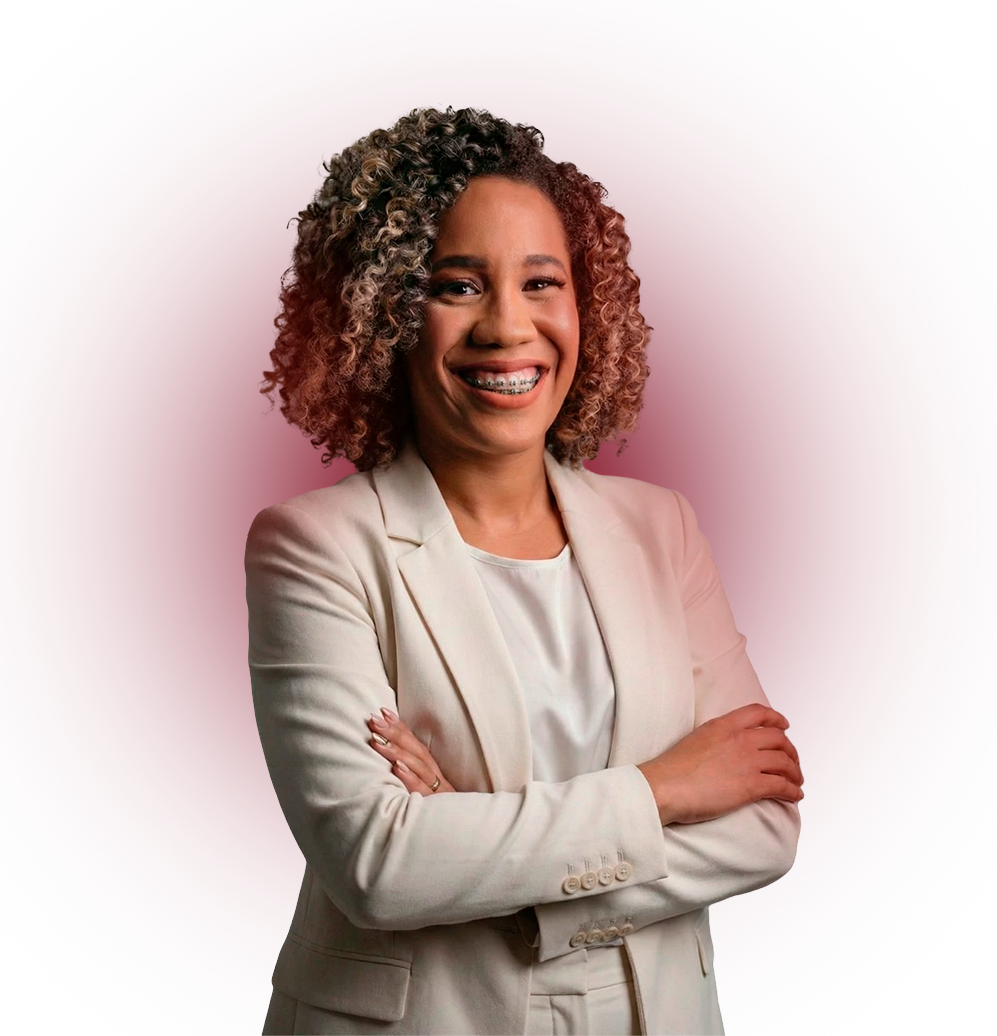
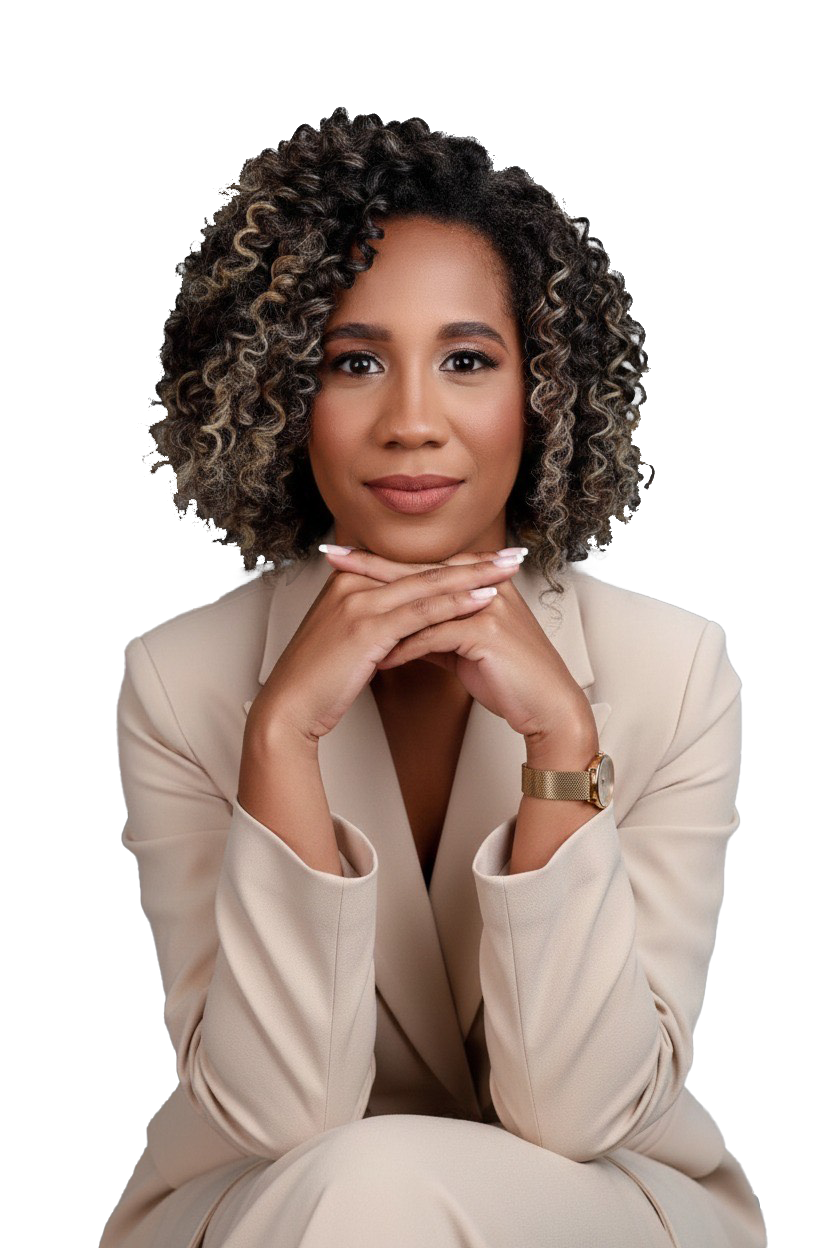
features foto hero, about

diff --git a/src/components/Hero.tsx b/src/components/Hero.tsx
@@ -2,15 +2,10 @@ import { useEffect, useRef } from "react";
 import { MessageCircle, ChevronDown } from "lucide-react";
 import heroBg from "@/assets/hero-bg2.jpeg";
 import draCassia from "@/assets/Dra.-Cassia-2.webp";
-import draCassiaWebp from "@/assets/Dra. Cassia.webp";
-import pagina1 from "@/assets/pagina 1.png";
-import pagina2 from "@/assets/pagina 2.png";
 
 const Hero = () => {
   const contentRef = useRef<HTMLDivElement>(null);
   const draRef = useRef<HTMLDivElement>(null);
-  const pagina1Ref = useRef<HTMLDivElement>(null);
-  const pagina2Ref = useRef<HTMLDivElement>(null);
 
   useEffect(() => {
     let ticking = false;
@@ -87,20 +82,6 @@ const Hero = () => {
         draRef.current.style.transform = `translate3d(${draX}px, ${draY + scrollParallax}px, 0)`;
       }
 
-      // Página 1 - movimento individual
-      if (pagina1Ref.current) {
-        const page1X = -moveX * intensity * 0.6; // Movimento mais sutil
-        const page1Y = -moveY * intensity * 0.6;
-        pagina1Ref.current.style.transform = `translate3d(${page1X}px, ${page1Y}px, 0)`;
-      }
-
-      // Página 2 - movimento individual
-      if (pagina2Ref.current) {
-        const page2X = -moveX * intensity * 0.6; // Movimento mais sutil
-        const page2Y = -moveY * intensity * 0.6;
-        pagina2Ref.current.style.transform = `translate3d(${page2X}px, ${page2Y}px, 0)`;
-      }
-
       animationFrame = requestAnimationFrame(animate);
     };
 
@@ -143,7 +124,6 @@ const Hero = () => {
           style={{ objectPosition: "center center" }}
           loading="eager"
           decoding="async"
-          fetchPriority="high"
         />
         {/* Overlays */}
         <div className="absolute inset-0 bg-background/65" />
@@ -152,43 +132,7 @@ const Hero = () => {
         
         {/* Mobile: Overlay mais forte para melhor contraste */}
         <div className="absolute inset-0 bg-gradient-to-b from-background/80 via-background/70 to-background/85 md:hidden" />
-        
-        {/* Página 1 - Lado esquerdo (segundo plano) */}
-        <div 
-          ref={pagina1Ref}
-          className="absolute bottom-[45%] left-[62%] hidden md:block will-change-transform z-[1]"
-        >
-          <img
-            src={pagina1}
-            alt="Elemento decorativo do hero"
-            className="max-w-[250px] w-auto h-auto object-contain opacity-60"
-            loading="lazy"
-            decoding="async"
-            style={{
-              filter: "drop-shadow(0 10px 30px rgba(0,0,0,0.4))",
-              transition: "transform 0.1s ease-out"
-            }}
-          />
-        </div>
 
-        {/* Página 2 - Lado direito (segundo plano) */}
-        <div 
-          ref={pagina2Ref}
-          className="absolute bottom-[22%] left-[70%] hidden md:block will-change-transform z-[1]"
-        >
-          <img
-            src={pagina2}
-            alt="Elemento decorativo do hero"
-            className="w-[1500px] h-auto object-contain opacity-80"
-            loading="lazy"
-            decoding="async"
-            style={{
-              filter: "drop-shadow(0 10px 30px rgba(0,0,0,0.4))",
-              transition: "transform 0.1s ease-out"
-            }}
-          />
-        </div>
-        
         {/* Foto da Dra. Cássia - Desktop: com parallax invertido (sobe ao rolar) */}
         <div
           ref={draRef}
@@ -208,9 +152,9 @@ const Hero = () => {
         </div>
 
         {/* Foto da Dra. Cássia - Mobile: centralizada e posicionada abaixo do conteúdo */}
-        <div className="absolute top-[48%] left-1/2 -translate-x-1/2 h-[52vh] max-h-[550px] min-h-[380px] md:hidden will-change-transform z-[2]">
+        <div className="absolute bottom-0 left-1/2 -translate-x-1/2 h-[45vh] sm:h-[50vh] max-h-[520px] min-h-[400px] md:hidden will-change-transform z-[2] pointer-events-none select-none">
           <img
-            src={draCassiaWebp}
+            src={draCassia}
             alt="Dra. Cássia Iglece"
             className="h-full w-auto object-contain mx-auto"
             decoding="async"
@@ -341,7 +285,7 @@ const Hero = () => {
         {/* Scroll indicator */}
         <button
           onClick={() => scrollToSection("#sobre")}
-          className="absolute bottom-6 md:bottom-8 left-1/2 -translate-x-1/2 z-30 flex flex-col items-center gap-3 text-white/40 md:text-white/30 hover:text-primary/70 transition-colors cursor-pointer group"
+          className="absolute bottom-6 md:bottom-8 left-1/2 -translate-x-1/2 z-30 hidden md:flex flex-col items-center gap-3 text-white/40 md:text-white/30 hover:text-primary/70 transition-colors cursor-pointer group"
           aria-label="Rolar para baixo"
         >
           <div className="w-6 h-10 rounded-full border border-current flex items-start justify-center p-2">

diff --git a/src/components/AboutSection.tsx b/src/components/AboutSection.tsx
@@ -1,6 +1,6 @@
 import { CheckCircle } from "lucide-react";
 import aboutSectionBg from "@/assets/aboutsection.webp";
-import aboutMobile from "@/assets/aboutmobile.jpg";
+import aboutMobile from "@/assets/aboutsection.webp";
 import { useRef, useEffect } from "react";
 import { gsap } from "gsap";
 import { ScrollTrigger } from "gsap/ScrollTrigger";
@@ -76,7 +76,7 @@ const AboutSection = () => {
               <img
                 src={aboutSectionBg}
                 alt="Dra. Cássia Iglece"
-                className="w-full h-full object-cover object-center transition-transform duration-300 group-hover:scale-105"
+                className="w-full h-full object-cover object-[50%_25%] origin-top transition-transform duration-300 group-hover:scale-105"
                 style={{ display: "block" }}
                 loading="lazy"
                 decoding="async"
